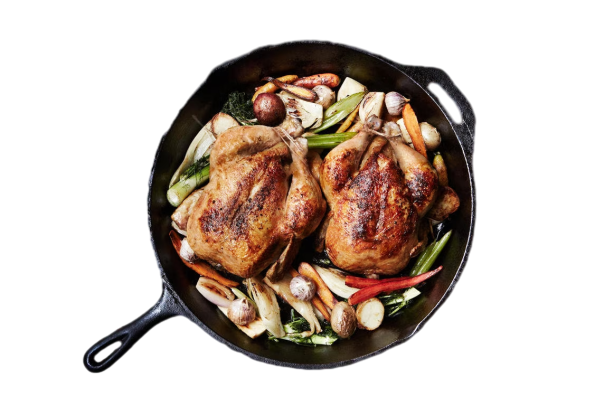
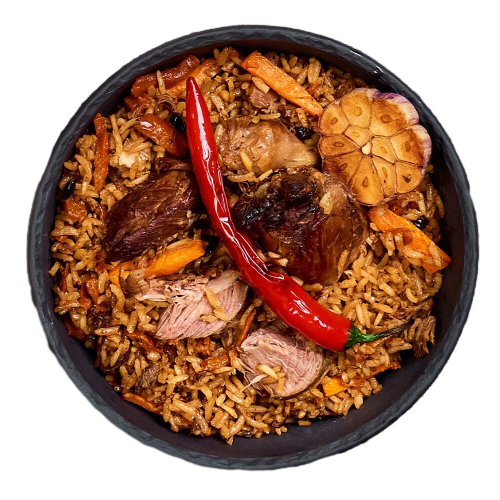
change cod

diff --git a/lib/pages/Shirinliklar.dart b/lib/pages/Shirinliklar.dart
@@ -38,6 +38,12 @@ class _ShirinliklarState extends State<Shirinliklar> {
     super.initState();
     _apiPostList();
   }
+
+  Future<void> deleteSweet(String id) async {
+    await RTDBService.deleteSweet(id);
+    _apiPostList();
+  }
+
   @override
   Widget build(BuildContext context) {
     return Scaffold(
@@ -66,53 +72,33 @@ class _ShirinliklarState extends State<Shirinliklar> {
             ),
             child: Row(
               children: [
-                Container(
-                    decoration: BoxDecoration(
-                      boxShadow: [
-                        BoxShadow(
-                          color: Color.fromARGB(255, 9, 9, 9),
-                          blurRadius: 5.0,
-                          spreadRadius: 1,
-                          offset: Offset(
-                            1,
-                            0,
-                          ),
-                        )
-                      ],
-                      borderRadius: BorderRadius.only(
-                        topLeft: Radius.circular(20),
-                        bottomRight: Radius.circular(20),
-                        topRight: Radius.circular(20),
-                        bottomLeft: Radius.circular(20),
-                      ),
-                      color: Color.fromARGB(255, 52, 52, 52),
+                InteractiveViewer(
+                  minScale: 1,
+                  maxScale: 5,
+                  child: ImageNetwork(
+                    image: items[index].image_url!,
+                    height: 161,
+                    width: 163,
+                    duration: 1500,
+                    curve: Curves.easeIn,
+                    onPointer: true,
+                    debugPrint: false,
+                    fullScreen: false,
+                    fitAndroidIos: BoxFit.cover,
+                    borderRadius: BorderRadius.circular(20),
+                    fitWeb: BoxFitWeb.cover,
+                    onLoading: const CircularProgressIndicator(
+                      color: Colors.indigoAccent,
                     ),
-                    margin: EdgeInsets.only(top: 15, left: 8, bottom: 15),
-                    width: 165,
-                    height: 163,
-                    child: ImageNetwork(
-                      image: items[index].image_url!,
-                      height: 161,
-                      width: 163,
-                      duration: 1500,
-                      curve: Curves.easeIn,
-                      onPointer: true,
-                      debugPrint: false,
-                      fullScreen: false,
-                      fitAndroidIos: BoxFit.cover,
-                      borderRadius: BorderRadius.circular(20),
-                      fitWeb: BoxFitWeb.cover,
-                      onLoading: const CircularProgressIndicator(
-                        color: Colors.indigoAccent,
-                      ),
-                      onError: const Icon(
-                        Icons.error,
-                        color: Colors.red,
-                      ),
-                      onTap: () {
-                        debugPrint("©gabriel_patrick_souza");
-                      },
-                    )),
+                    onError: const Icon(
+                      Icons.error,
+                      color: Colors.red,
+                    ),
+                    onTap: () {
+                      debugPrint("©gabriel_patrick_souza");
+                    },
+                  ),
+                ),
                 SizedBox(
                   width: 20,
                 ),
@@ -142,8 +128,11 @@ class _ShirinliklarState extends State<Shirinliklar> {
                       ?SizedBox()
                       :IconButton(
                         icon:  Icon(Icons.delete, color: Colors.red,),
-                        onPressed: () {
-                          // ...
+                        onPressed: () async{
+                          await RTDBService.deleteSweet(items[index].postID!);
+                          setState(() {
+                            items.removeAt(index);
+                          });
                         },
                       ),
                     ]),

diff --git a/lib/pages/home_page.dart b/lib/pages/home_page.dart
@@ -39,11 +39,7 @@ class _ModernTabBarState extends State<HomePage>
               ),
               child: Row(
                 children: [
-                  CircleAvatar(
-                    radius: 40,
-                    backgroundImage:
-                        AssetImage('images/menu.png'), // Profil rasmi
-                  ),
+                  Image.asset('images/foodmenu.png', height: 85, width: 85, fit: BoxFit.cover,),
                   const SizedBox(width: 16),
                   Text(
                     'Hush kelibsiz', // Foydalanuvchi nomi
@@ -58,7 +54,7 @@ class _ModernTabBarState extends State<HomePage>
               ),
             ),
             ListTile(
-              leading: Icon(Icons.restaurant_menu, color: Colors.white),
+              leading: Image.asset("images/menu.png", height: 40, width: 40 , fit: BoxFit.cover, color: Colors.white70,),
               title: Text(
                 'Menu',
                 style: TextStyle(fontFamily: 'Poppins', color: Colors.white),
@@ -69,19 +65,28 @@ class _ModernTabBarState extends State<HomePage>
 
             ),
             ListTile(
-              leading: Icon(Icons.phone, color: Colors.white),
+              leading: Image.asset("images/dostafka.png", height: 40, width: 40, fit: BoxFit.cover,),
               title: Text(
-                'Telefon',
+                'Dostavka 1',
                 style: TextStyle(fontFamily: 'Poppins', color: Colors.white),
               ),
               onTap: () {
                 UrlService.makePhoneCall("+998889445000");
               },
             ),
-
+            ListTile(
+              leading: Image.asset("images/dostafka.png", height: 40, width: 40, fit: BoxFit.cover,),
+              title: Text(
+                'Dostavka 2',
+                style: TextStyle(fontFamily: 'Poppins', color: Colors.white),
+              ),
+              onTap: () {
+                UrlService.makePhoneCall("+998889446000");
+              },
+            ),
             // Instagram
             ListTile(
-              leading: Icon(Icons.photo_camera, color: Colors.pink),
+              leading: Image.asset("images/insta.png", height: 40, width: 40, fit: BoxFit.cover,),
               title: Text(
                 'Instagram',
                 style: TextStyle(fontFamily: 'Poppins', color: Colors.white),
@@ -93,16 +98,7 @@ class _ModernTabBarState extends State<HomePage>
             ),
 
             // Telegram
-            ListTile(
-              leading: Icon(Icons.telegram, color: Colors.blue),
-              title: Text(
-                'Telegram',
-                style: TextStyle(fontFamily: 'Poppins', color: Colors.white),
-              ),
-              onTap: () {
-                // Telegram kanaliga o'tish
-              },
-            ),
+
           ],
         ),
       ),

diff --git a/lib/pages/Salad.dart b/lib/pages/Salad.dart
@@ -96,28 +96,32 @@ class _SaladState extends State<Salad> {
                     margin: EdgeInsets.only(top: 15, left: 8, bottom: 15),
                     width: 165,
                     height: 163,
-                    child: ImageNetwork(
-                      image: items[index].image_url!,
-                      height: 161,
-                      width: 163,
-                      duration: 1500,
-                      curve: Curves.easeIn,
-                      onPointer: true,
-                      debugPrint: false,
-                      fullScreen: false,
-                      fitAndroidIos: BoxFit.cover,
-                      borderRadius: BorderRadius.circular(20),
-                      fitWeb: BoxFitWeb.cover,
-                      onLoading: const CircularProgressIndicator(
-                        color: Colors.indigoAccent,
+                    child: InteractiveViewer(
+                      minScale: 1,
+                      maxScale: 5,
+                      child: ImageNetwork(
+                        image: items[index].image_url!,
+                        height: 161,
+                        width: 163,
+                        duration: 1500,
+                        curve: Curves.easeIn,
+                        onPointer: true,
+                        debugPrint: false,
+                        fullScreen: false,
+                        fitAndroidIos: BoxFit.cover,
+                        borderRadius: BorderRadius.circular(20),
+                        fitWeb: BoxFitWeb.cover,
+                        onLoading: const CircularProgressIndicator(
+                          color: Colors.indigoAccent,
+                        ),
+                        onError: const Icon(
+                          Icons.error,
+                          color: Colors.red,
+                        ),
+                        onTap: () {
+                          debugPrint("©gabriel_patrick_souza");
+                        },
                       ),
-                      onError: const Icon(
-                        Icons.error,
-                        color: Colors.red,
-                      ),
-                      onTap: () {
-                        debugPrint("©gabriel_patrick_souza");
-                      },
                     )),
                 SizedBox(
                   width: 20,

diff --git a/lib/service/rtdb_service.dart b/lib/service/rtdb_service.dart
@@ -36,6 +36,7 @@ class RTDBService {
   }
 
   static Future<Stream<DatabaseEvent>> addIchimlik(Post post) async {
+    post.postID = _databse.child('ichimliklar').push().key;
     _databse.child('ichimliklar').push().set(post.toJson());
     return _databse.onChildAdded;
   }
@@ -54,14 +55,19 @@ class RTDBService {
           name: map['name'],
           title: map['title'],
           price: map['price'],
-          image_url: map['image_url']);
+          image_url: map['image_url'],
+          postID: child.key);
       ichimlik.add(post);
     }
     return ichimlik;
   }
 
+  static Future<void> deleteIchimlik(String id) async {
+    await _databse.child('ichimliklar').child(id).remove();
+  }
+
   static Future<Stream<DatabaseEvent>> addSweet(Post post) async {
-    //
+    post.postID = _databse.child('Shirinliklar').push().key;
     _databse.child('Shirinliklar').push().set(post.toJson());
     return _databse.onChildAdded;
   }
@@ -80,13 +86,19 @@ class RTDBService {
           name: map['name'],
           title: map['title'],
           price: map['price'],
-          image_url: map['image_url']);
+          image_url: map['image_url'],
+          postID: child.key);
       shirinliklar.add(post);
     }
     return shirinliklar;
   }
 
+  static Future<void> deleteSweet(String id) async {
+    await _databse.child('Shirinliklar').child(id).remove();
+  }
+
   static Future<Stream<DatabaseEvent>> addFood(Post post) async {
+    post.postID = _databse.child('Taomlar').push().key;
     _databse.child('Taomlar').push().set(post.toJson());
     return _databse.onChildAdded;
   }
@@ -105,10 +117,15 @@ class RTDBService {
           name: map['name'],
           title: map['title'],
           price: map['price'],
-          image_url: map['image_url']);
+          image_url: map['image_url'],
+          postID: child.key);
       taomlar.add(post);
     }
     return taomlar;
+  }
+
+  static Future<void> deleteFood(String id) async {
+    await _databse.child('Taomlar').child(id).remove();
   }
 
   static Future<void> deletePost(String id) async {

diff --git a/lib/pages/Ichimliklar.dart b/lib/pages/Ichimliklar.dart
@@ -39,6 +39,11 @@ class _IchimliklarState extends State<Ichimliklar> {
     _apiPostList();
   }
 
+  Future<void> deleteIchimlik(String id) async {
+    await RTDBService.deleteIchimlik(id);
+    _apiPostList();
+  }
+
   @override
   Widget build(BuildContext context) {
     return Scaffold(
@@ -143,8 +148,11 @@ class _IchimliklarState extends State<Ichimliklar> {
                       ?SizedBox()
                      : IconButton(
                         icon:  Icon(Icons.delete, color: Colors.red,),
-                        onPressed: () {
-                          // ...
+                        onPressed: () async{
+                          await RTDBService.deleteIchimlik(items[index].postID!);
+                          setState(() {
+                            items.removeAt(index);
+                          });
                         },
                       ),
                     ]),

diff --git a/lib/pages/taom.dart b/lib/pages/taom.dart
@@ -30,6 +30,11 @@ class _TaomState extends State<Taom> {
     _apiPostList();
   }
 
+  Future<void> deleteFood(String id) async {
+    await RTDBService.deleteFood(id);
+    _apiPostList();
+  }
+
   @override
   Widget build(BuildContext context) {
     return Scaffold(
@@ -134,8 +139,11 @@ class _TaomState extends State<Taom> {
                       ?SizedBox()
                       :IconButton(
                         icon:  Icon(Icons.delete, color: Colors.red,),
-                        onPressed: () {
-                          // ...
+                        onPressed: () async{
+                          await RTDBService.deleteFood(items[index].postID!);
+                          setState(() {
+                            items.removeAt(index);
+                          });
                         },
                       ),
                     ]),
